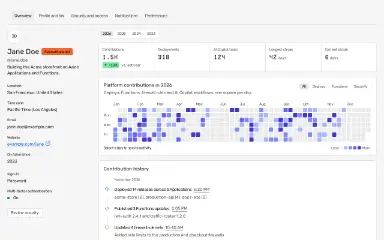
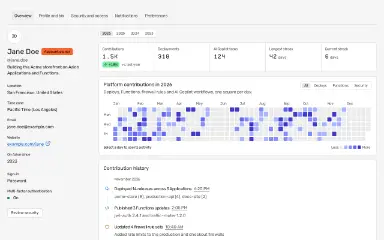
fix(webkit): keep catalog.json under its cap after the 6.0 merge
The profile block's catalog entry is shorter (summary, guidelines intro, two
duplicate intents), so catalog.json stays under 1,470,000 bytes. Profile
baselines and thumbnails follow the merged theme; the demos source list picks
up the new prompt-input files.

diff --git a/apps/demos/src/webkit.sources.css b/apps/demos/src/webkit.sources.css
@@ -64,10 +64,12 @@
 @source "../node_modules/@aziontech/webkit/src/components/ai/prompt-input/lib/autosize.ts";
 @source "../node_modules/@aziontech/webkit/src/components/ai/prompt-input/lib/box-focus.ts";
 @source "../node_modules/@aziontech/webkit/src/components/ai/prompt-input/lib/classes.ts";
+@source "../node_modules/@aziontech/webkit/src/components/ai/prompt-input/lib/favorite-keys.ts";
 @source "../node_modules/@aziontech/webkit/src/components/ai/prompt-input/lib/references.ts";
 @source "../node_modules/@aziontech/webkit/src/components/ai/prompt-input/lib/tool-keys.ts";
 @source "../node_modules/@aziontech/webkit/src/components/ai/prompt-input/parts/prompt-input-add-menu.vue";
 @source "../node_modules/@aziontech/webkit/src/components/ai/prompt-input/parts/prompt-input-menu-list.vue";
+@source "../node_modules/@aziontech/webkit/src/components/ai/prompt-input/parts/prompt-input-model-dialog.vue";
 @source "../node_modules/@aziontech/webkit/src/components/ai/prompt-input/parts/prompt-input-references.vue";
 @source "../node_modules/@aziontech/webkit/src/components/ai/prompt-input/parts/prompt-input-send.vue";
 @source "../node_modules/@aziontech/webkit/src/components/ai/prompt-input/prompt-input-access-picker/prompt-input-access-picker.vue";

diff --git a/packages/webkit/llms/blocks/account/account-user-profile.md b/packages/webkit/llms/blocks/account/account-user-profile.md
@@ -1,6 +1,6 @@
 # AccountUserProfile (`account/account-user-profile`)
 
-> One page for an Azion user's profile and personal settings, a page body for ConsoleLayout's default slot. A compact header (a 48 px `Avatar`, the name, a role `Tag`, handle, location and join year; no actions, the tabs are where you edit) sits over `PageTabs`, and from a 1192px-wide block (`@5xl`) it becomes a column beside the tab content with the bio under it and, on Overview, a `KeyValueList` summary (location, time zone, email, website, join year, sign-in and multi-factor as a `StatusIndicator`) with a Review security `Button` that opens the Security tab. The settings tabs stop at the form measure, like the settings page; Overview uses the full width. The tabs: Overview, Profile and bio, Security and access, Notifications and Preferences. Overview opens with a year `ToggleGroup` (a ghost `Select` past five years) above everything it changes, then five `StatTile`s in a `StatTileGroup` for the selected year (hidden on a phone), a `Card` with a `ContributionGraph` whose days grow to fill the card (a category `ToggleGroup`, a day click that filters the history) and a `Card` with a month-grouped `Timeline` of contributions, or an `EmptyState`. The settings tabs are `SettingsGroup`s over flush `Card`s of `SettingsRow`s: profile fields, `PhoneInput`, `LanguageSelect` and visibility `Switch`es; `PasswordInput` with `PasswordRequirements` and a Change password button that checks each field, multi-factor (a `ConfirmDialog` before it turns off) and personal tokens, locked with an info `Alert` and a warning `Tag` when the organization's SSO and SCIM provider manages them; three scheduled digests and real-time alerts as `Select`s; `ThemeSwitcher` and a Keyboard shortcuts `Switch`. A docked `SaveBar` appears with unsaved profile, notification or preference changes (Discard, Save changes; Command S and its hint only while shortcuts are on). Loading draws `Skeleton`s; a load failure is a danger `Alert` with Retry.
+> An Azion user's profile and personal settings, the body of ConsoleLayout's default slot. A compact header (`Avatar`, name, role `Tag`) sits over `PageTabs`: Overview, Profile and bio, Security and access, Notifications and Preferences. From 1192px it is a column beside the tabs, with a `KeyValueList` summary on Overview. Overview opens with a year `ToggleGroup` (a `Select` past five years) above the `StatTile`s, a `ContributionGraph` card with a category filter, and a `Timeline` history. Settings tabs are `SettingsGroup`s of `SettingsRow`s with a docked `SaveBar`; loading draws `Skeleton`s, a failure a danger `Alert`.
 
 - Surface: app
 - Source: `blocks/account/account-user-profile/account-user-profile.vue` in `@aziontech/webkit`
@@ -11,9 +11,9 @@
 
 ## Asked as
 
-user profile; developer profile; my profile; profile settings; personal settings; contribution graph; platform contributions; contribution history; notification preferences; security settings; perfil do usuário; configurações de perfil; contribuições na plataforma; preferências de notificação
+user profile; my profile; profile settings; personal settings; contribution graph; platform contributions; notification preferences; security settings; perfil do usuário; configurações de perfil; contribuições na plataforma; preferências de notificação
 
-One page for an Azion user's profile and every personal setting: what they did on the platform (metrics, a year of daily contributions and the history behind them) and how their account is set up (profile, security, notifications and preferences). It is a page body for `ConsoleLayout`: the app renders it in the layout's default slot, and the layout owns the rail, the header and the `main`.
+One page for an Azion user's profile and every personal setting: their platform activity and how their account is set up. It is the body of `ConsoleLayout`'s default slot; the layout owns the rail, the header and the `main`.
 
 ## When to use
 

diff --git a/packages/webkit/blocks/account/account-user-profile/guidelines.md b/packages/webkit/blocks/account/account-user-profile/guidelines.md
@@ -1,6 +1,6 @@
 # User profile
 
-One page for an Azion user's profile and every personal setting: what they did on the platform (metrics, a year of daily contributions and the history behind them) and how their account is set up (profile, security, notifications and preferences). It is a page body for `ConsoleLayout`: the app renders it in the layout's default slot, and the layout owns the rail, the header and the `main`.
+One page for an Azion user's profile and every personal setting: their platform activity and how their account is set up. It is the body of `ConsoleLayout`'s default slot; the layout owns the rail, the header and the `main`.
 
 ## When to use
 
